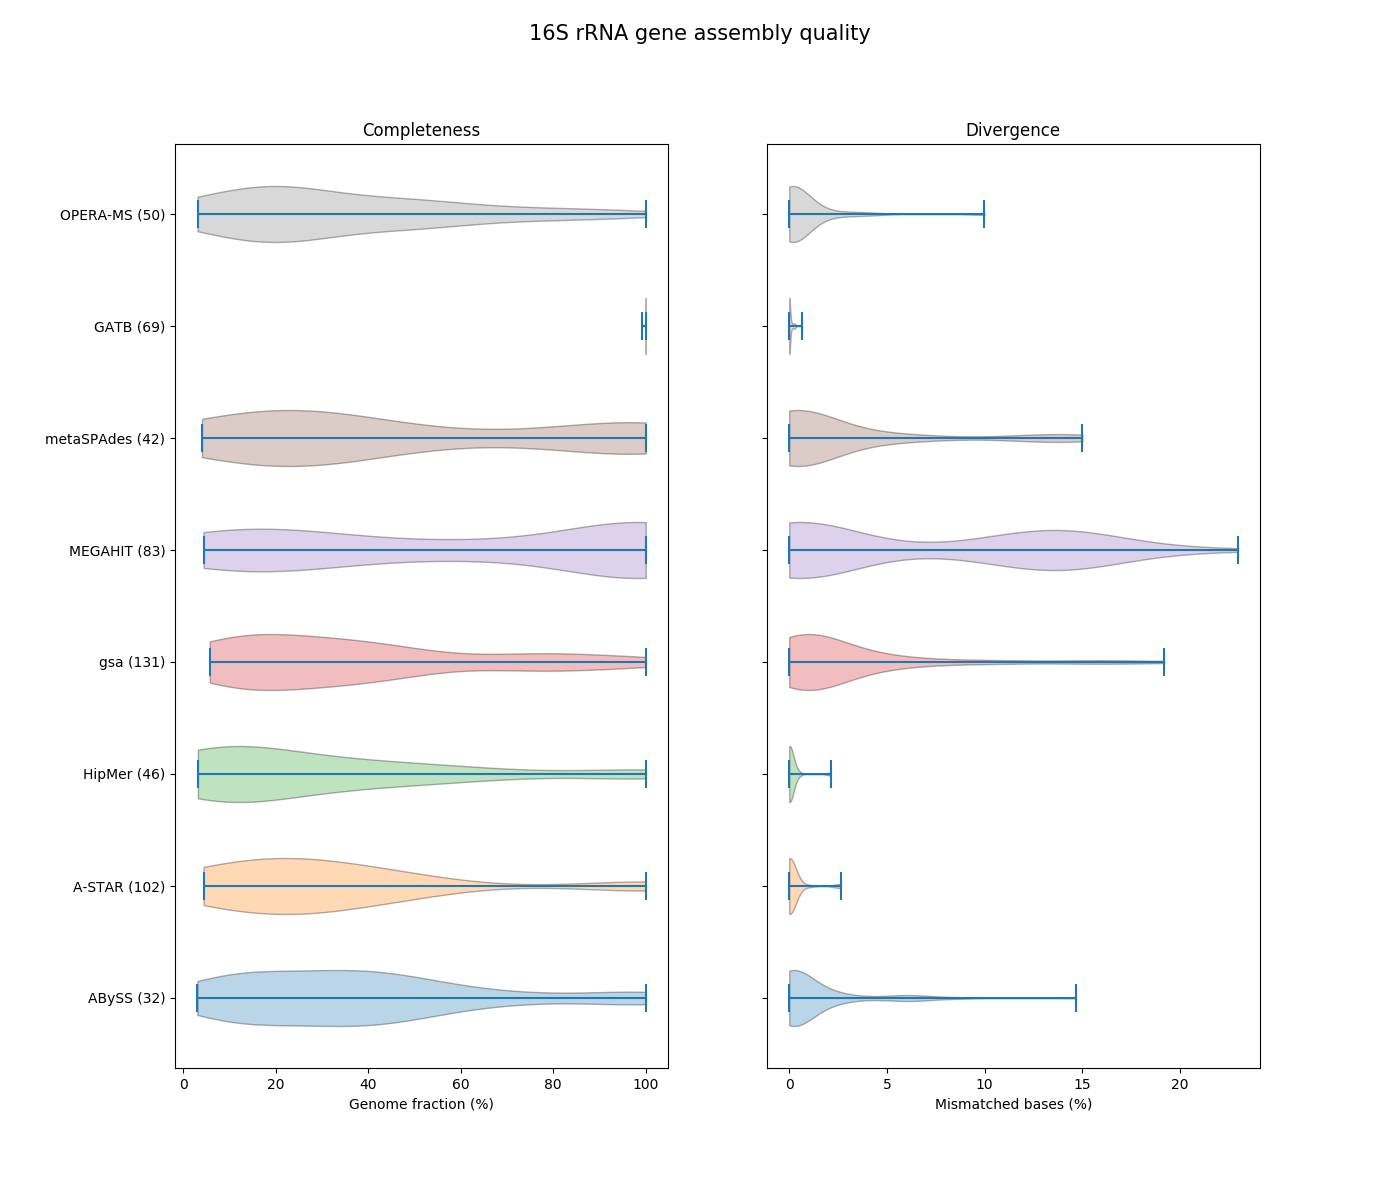
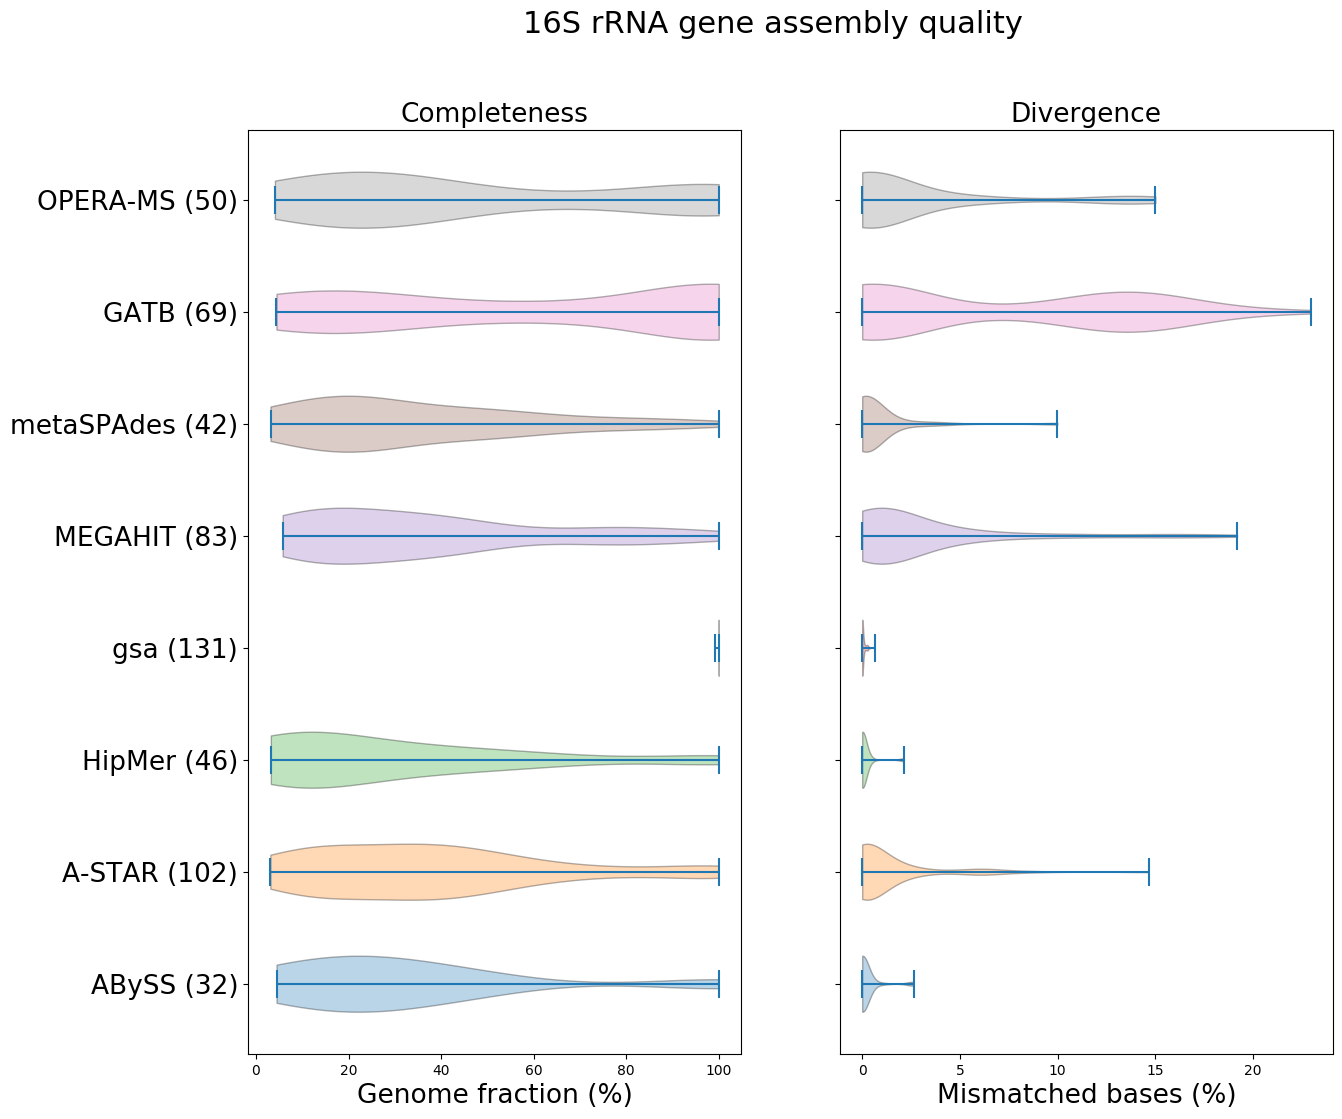
Updated 16S plotting

diff --git a/assembly/scripts/eval_16S.py b/assembly/scripts/eval_16S.py
@@ -59,12 +59,11 @@ subset = ['ABySS_short','A-STAR_contig_hybrid','HipMer_Metagenome_short','marmgC
 subset2_no_gsa = ['ABySS_short','A-STAR_contig_hybrid','HipMer_Metagenome_short','Megahit_v1-1-4-2_short','metaSPAdes_v3-13-1_short','Miniasm_GATB_hybrid','OPERA-MS-inhouse_hybrid']
 subset_names = {'ABySS_short':"ABySS",'A-STAR_contig_hybrid':"A-STAR",'HipMer_Metagenome_short':"HipMer",'marmgCAMI2_short_read_pooled_gsa':"gsa",'Megahit_v1-1-4-2_short':"MEGAHIT",'metaSPAdes_v3-13-1_short':"metaSPAdes",'Miniasm_GATB_hybrid':"GATB",'OPERA-MS-inhouse_hybrid':"OPERA-MS"}
 fig, (ax1, ax2) = plt.subplots(figsize=(14, 12), nrows=1, ncols=2, sharey = True)
-ax1.set_title("Completeness")
-ax2.set_title("Divergence")
-completeness = []
-divergence = []
-names = []
-lengths = []
+ax1.set_title("Completeness", fontsize=19)
+ax2.set_title("Divergence", fontsize=19)
+completeness = {}
+divergence = {}
+lengths = {}
 for assembler in assemblers:
     if assembler not in subset:
         continue
@@ -73,20 +72,19 @@ for assembler in assemblers:
     print("median: %s" % statistics.median(assemblers[assembler][0]))
     print("mean contig length: %s" % statistics.mean(assemblers[assembler][3]))
     print("median contig length: %s" % statistics.median(assemblers[assembler][3]))
-    completeness.append(assemblers[assembler][0])
-    divergence.append(assemblers[assembler][2])
-    if (assembler != 'marmgCAMI2_short_read_pooled_gsa'):
-        lengths.append(assemblers[assembler][3])
-        names.append(subset_names[assembler])
+    completeness[assembler] = assemblers[assembler][0]
+    divergence[assembler] = assemblers[assembler][2]
+    #if (assembler != 'marmgCAMI2_short_read_pooled_gsa'):
+    lengths[assembler] = assemblers[assembler][3]
 
-plot1 = ax1.violinplot(completeness, vert=False)
-plot2 = ax2.violinplot(divergence, vert=False)
+plot1 = ax1.violinplot([completeness[x] for x in subset_names], vert=False)
+plot2 = ax2.violinplot([divergence[x] for x in subset_names], vert=False)
 ax1.set_yticks(np.arange(1, len(subset) + 1))
 #ax2.set_yticks(np.arange(1, len(subset) + 1))
-ax1.set_yticklabels(["%s (%s)" % (subset_names[x], len(assemblers[x][1])) for x in subset])
+ax1.set_yticklabels(["%s (%s)" % (subset_names[x], len(assemblers[x][1])) for x in subset], fontsize=19)
 #ax2.set_yticklabels([subset_names[x] for x in subset])
-ax1.set_xlabel("Genome fraction (%)")
-ax2.set_xlabel("Mismatched bases (%)")
+ax1.set_xlabel("Genome fraction (%)", fontsize=19)
+ax2.set_xlabel("Mismatched bases (%)", fontsize=19)
 colors = sns.color_palette("tab10")
 for patch, color in zip(plot1['bodies'], colors):
     patch.set_color(color)
@@ -94,17 +92,17 @@ for patch, color in zip(plot1['bodies'], colors):
 for patch, color in zip(plot2['bodies'], colors):
     patch.set_color(color)
     patch.set_edgecolor('black')
-fig.suptitle("16S rRNA gene assembly quality", fontsize=15)
-plt.savefig("16S_violins.png")
+fig.suptitle("16S rRNA gene assembly quality", fontsize=22)
+plt.savefig("16S_violins.png", bbox_inches='tight')
 plt.close()
 
-plot3 = plt.boxplot(lengths, vert=False, patch_artist=True)
-plt.yticks(np.arange(1, len(subset2_no_gsa) + 1),names)
+plot3 = plt.boxplot([lengths[x] for x in subset_names], vert=False, patch_artist=True)
+plt.yticks(np.arange(1, len(subset) + 1),[subset_names[x] for x in subset_names])
 #plt.ticklabel_format(axis='x',style='sci',scilimits=(0,0))
 plt.xlabel("Mapped contig lengths (bp)")
 plt.xscale("log")
 colors = sns.color_palette("tab10")
 for patch, color in zip(plot3['boxes'], colors):
-    patch.set(facecolor = color)
-plt.title("16S rRNA gene assembly contig lengths", fontsize=12)
-plt.savefig("16S_boxes_lengths.png", bbox_inches='tight')
+    patch.set(facecolor = color, alpha = 0.3)
+plt.title("16S rRNA gene carrying contig lengths", fontsize=12)
+plt.savefig("16S_boxes_lengths.png", dpi=200, bbox_inches='tight')
